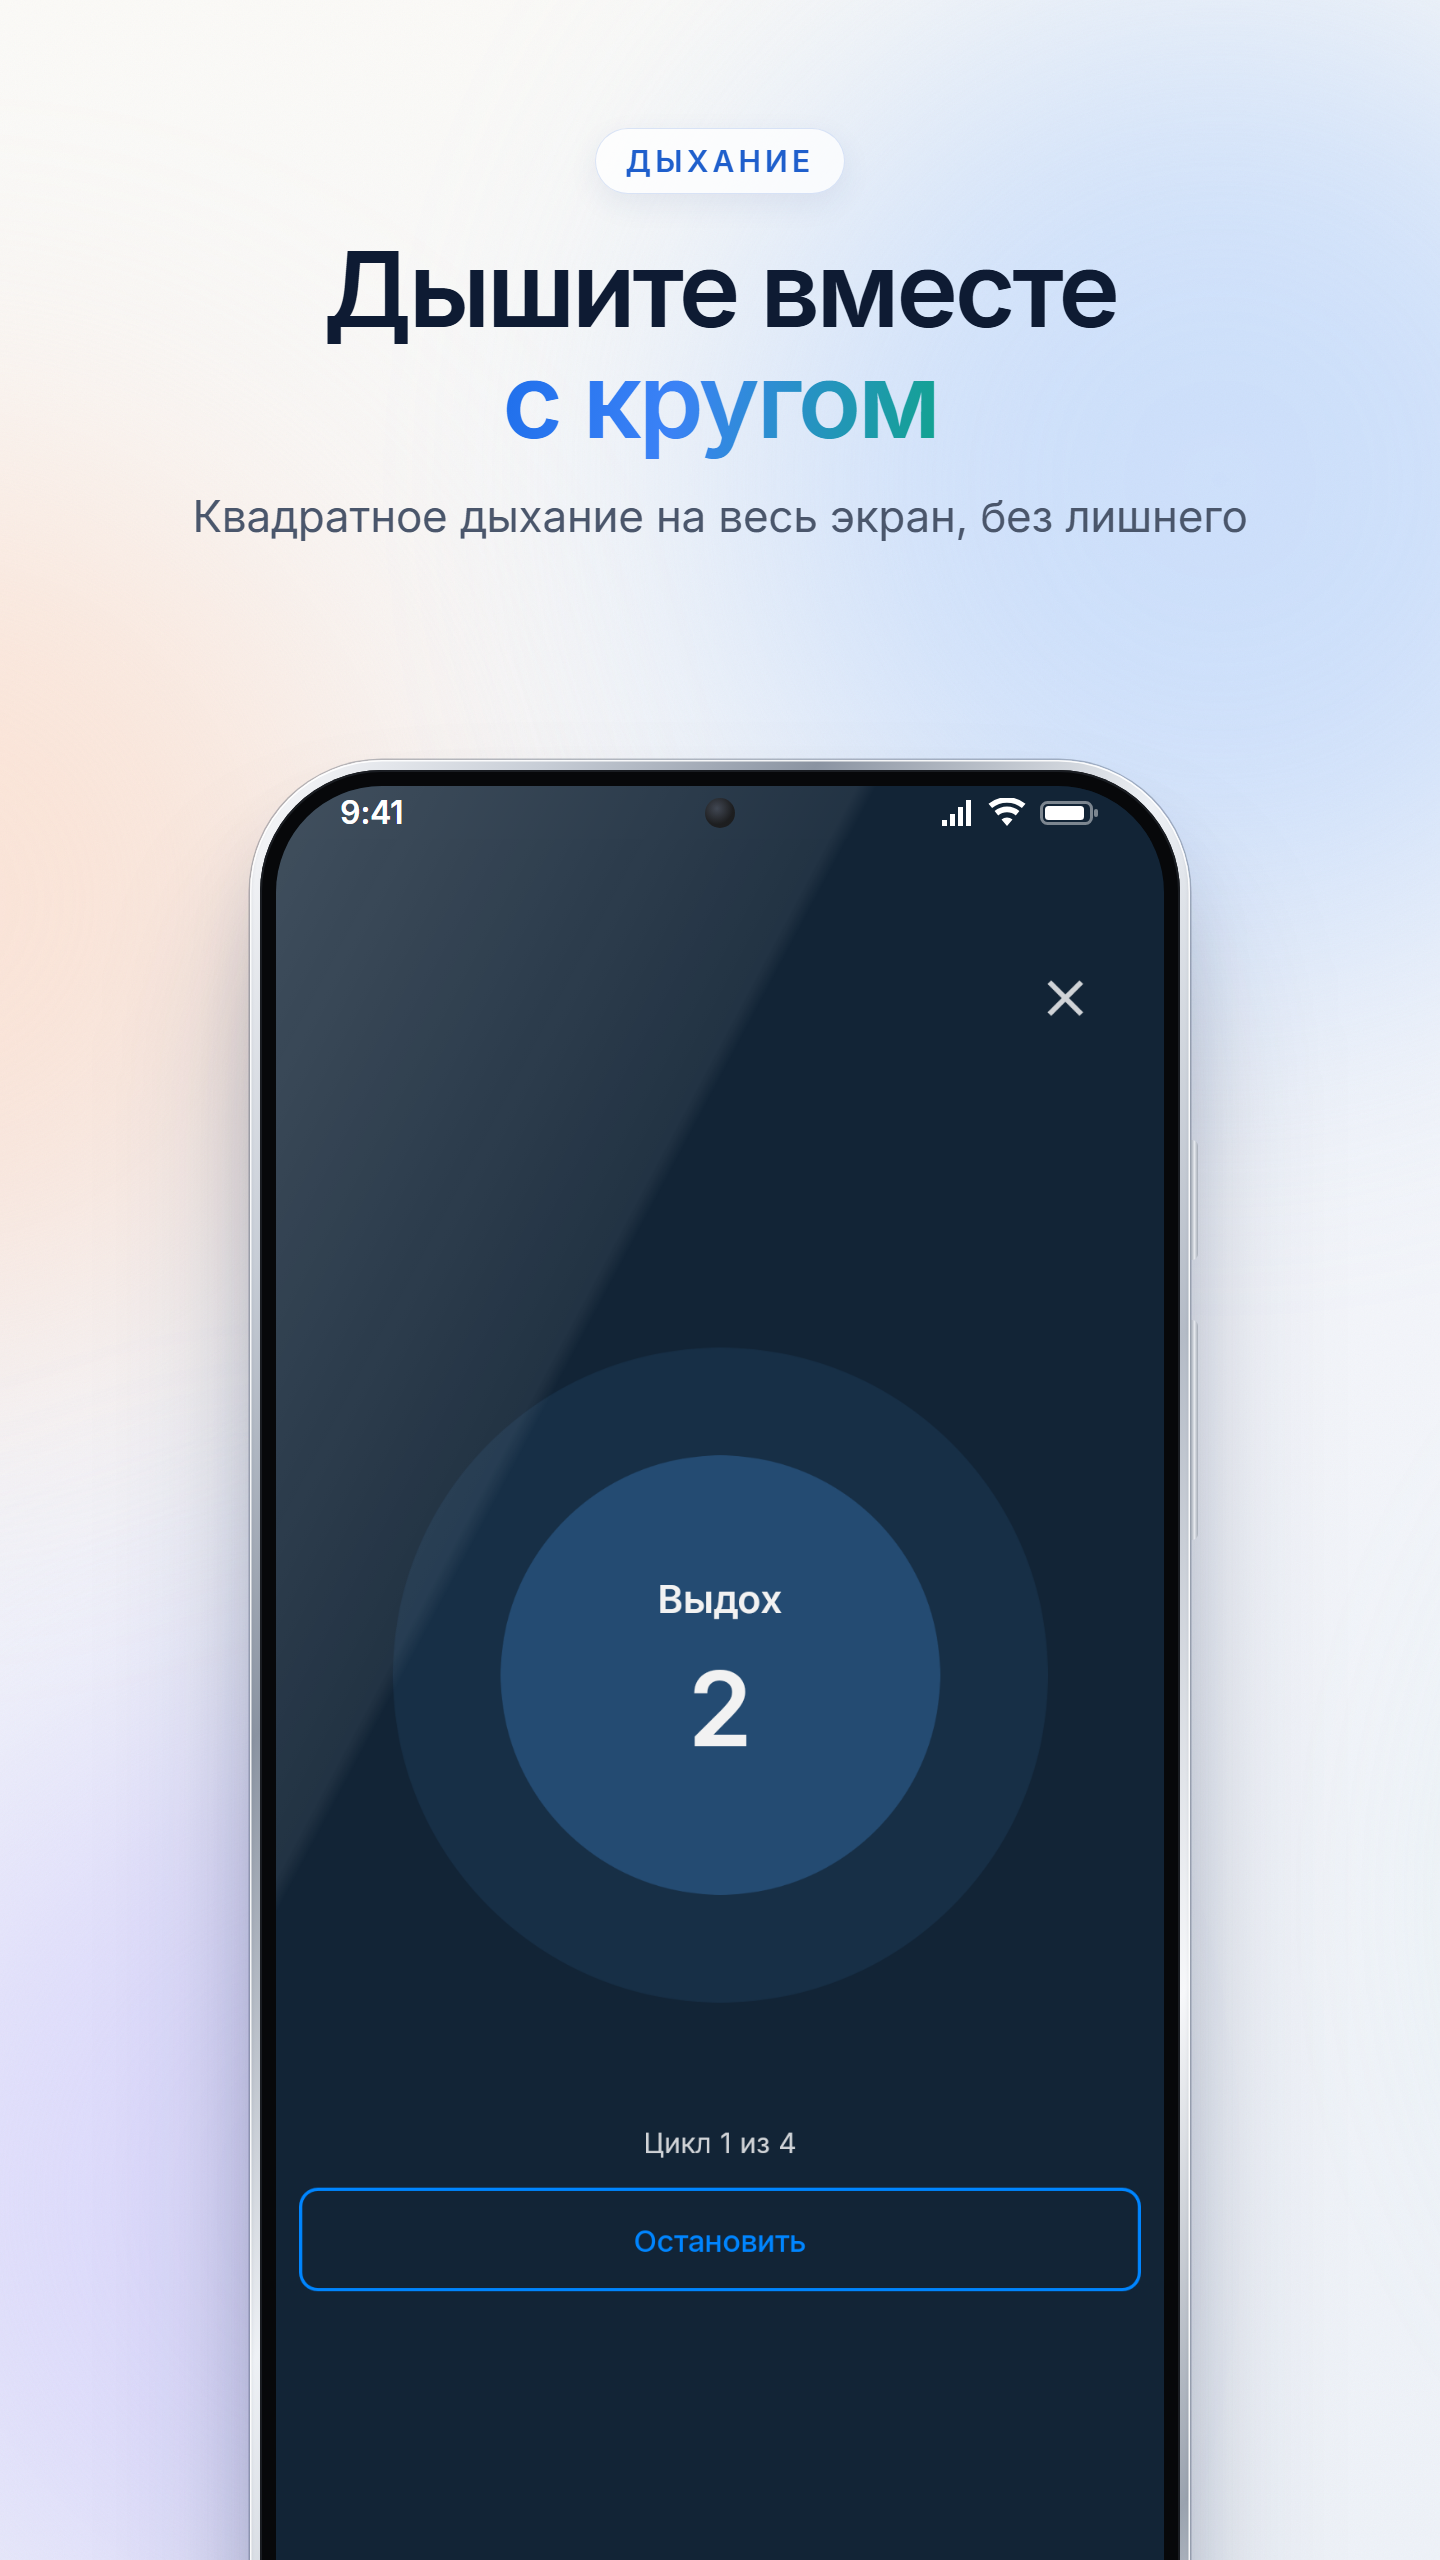
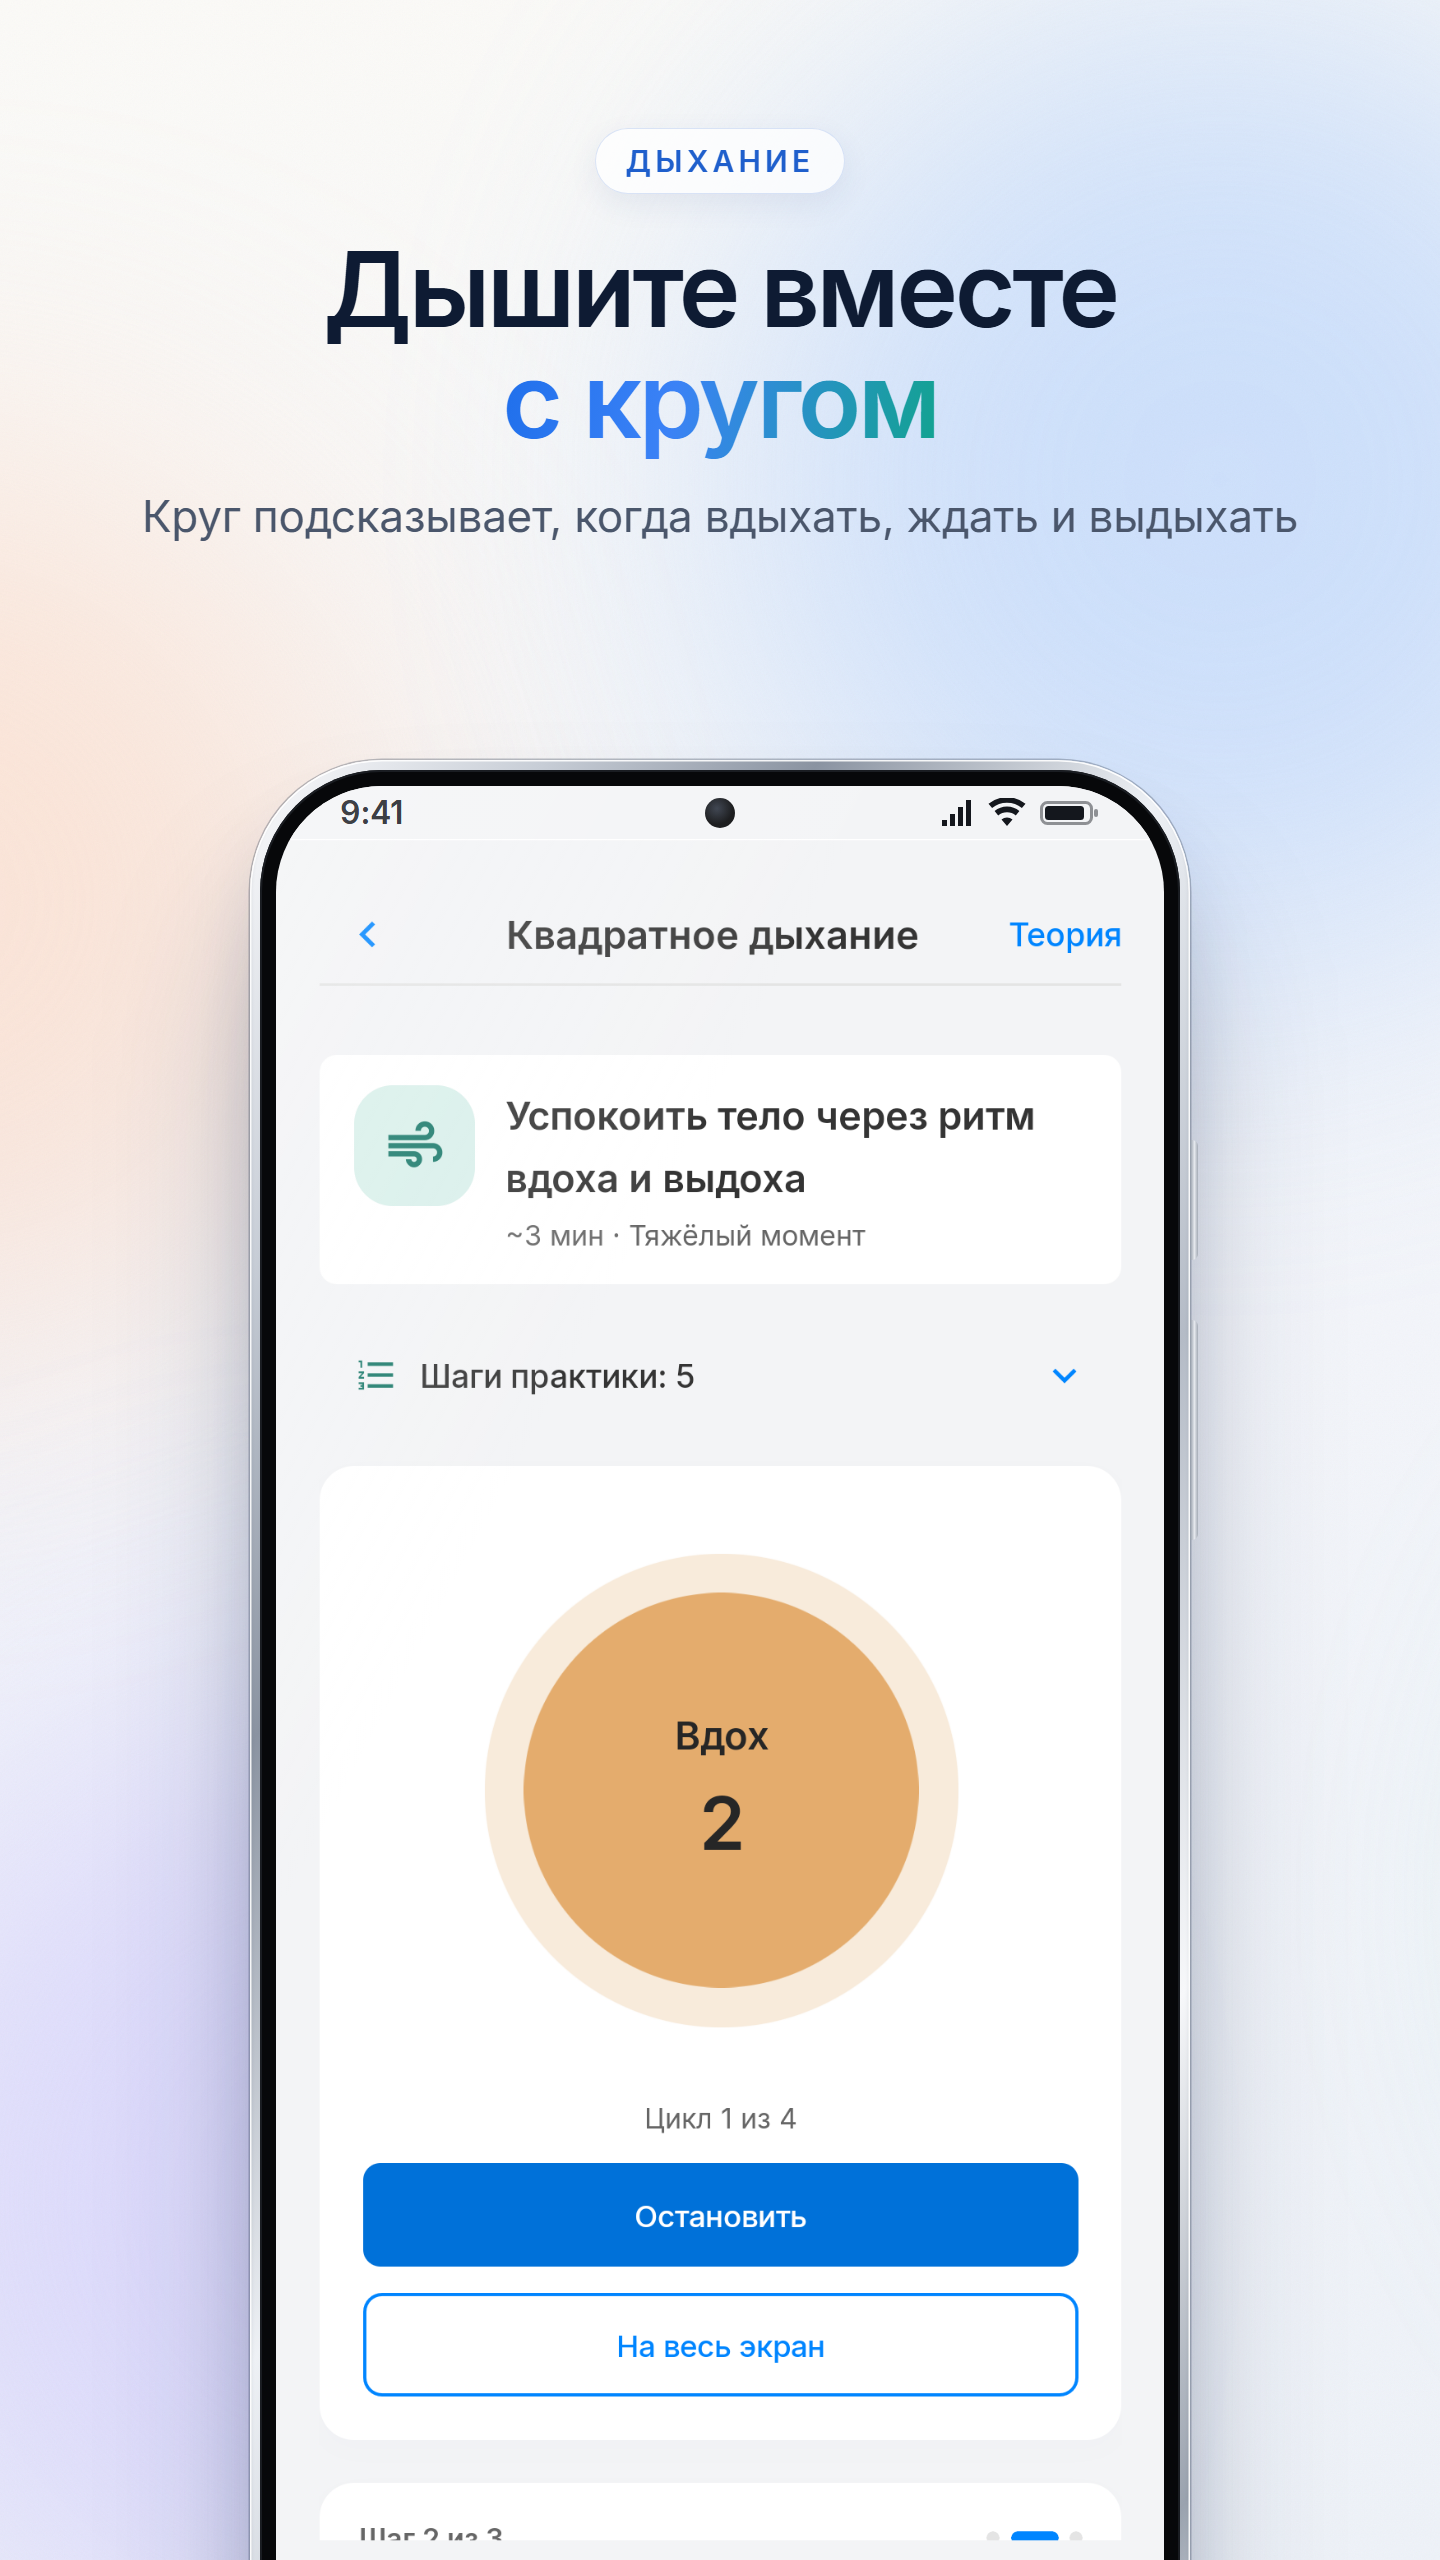
chore(store): light breathing slide instead of the dark full-screen one
The full-screen breathing screen is dark and broke the light strip of slides.
The slide now shows the same circle in the practice's own step, mid-inhale,
and the subtitle no longer promises a full-screen view.

diff --git a/tools/store-screenshots/README.md b/tools/store-screenshots/README.md
@@ -32,7 +32,7 @@ Google Play и RuStore; Google Play берёт до восьми) и `feature-gr
    | файл | экран |
    | --- | --- |
    | `chat.png` | ИИ-психолог, разговор «Перед презентацией», прокрученный так, чтобы сообщение человека было видно целиком |
-   | `breathing.png` | «Квадратное дыхание» → «Пропустить» → «На весь экран», дыхание идёт |
+   | `breathing.png` | «Квадратное дыхание» → «Пропустить» → «Начать», идёт вдох (не на весь экран: тёмный экран выпадает из светлой ленты) |
    | `practices.png` | вкладка «Практики» |
    | `insights.png` | меню → «Что мне помогает» |
    | `journal.png` | вкладка «Дневник» после выбора 🙂 |
